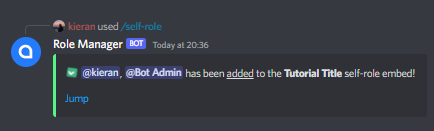
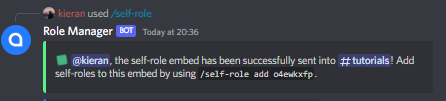
GitBook: [#7] auto roles page completed

Changed region(s): [[0.0, 0.0594, 0.9585, 0.9208], [0.0899, 0.9802, 0.1198, 1.0]]

diff --git a/p/auto-roles.md b/p/auto-roles.md
@@ -7,3 +7,24 @@ coverY: 0
 
 # Setting up Auto Roles with Role Manager!
 
+Before going any further, you'll need to ensure you have the `Administrator` permission within the server you're using. If you're the Owner of the server, then you'll have no need to worry about this!
+
+### Creating an Auto Role on your server with Role Manager!
+
+The first thing you're going to have to do is ensure that Role Manager has the permissions required for its general purpose. If that's the case, then its time to get our hands dirty..
+
+In any channel, type `/auto-role add`, this will bring up something looking a little like the image shown below:
+
+![](../.gitbook/assets/image.png)
+
+Once you can see this, press enter on your keyboard. You'll then see a field for you to select a role. This is the role you'd like members to recieve upon their joining of your server. For this tutorial, I'll just use a random role I have laying around in my server.
+
+Once your role has been selected, you'll see something like the following:
+
+![](<../.gitbook/assets/image (6).png>)
+
+From here, simply press enter on your keyboard and you're done! On a users arrival to your server, they'll automatically be granted the role you've specified within the command above. Should you want to view all of your current server's auto-roles, simply use the command /auto-role list and you'll see an embed with all of your current auto-roles!
+
+![](<../.gitbook/assets/image (4).png>)
+
+So there you have it! That's how you setup auto-roles on Role Manager v3! Should you have any further questions or problems, don't hesistate to join our support server over @ [UtiliBots](https://discord.gg/cAtc7kZbPX)!

diff --git a/p/self-roles.md b/p/self-roles.md
@@ -25,7 +25,7 @@ Once you've chosen your channel, you'll see one last required field within the s
 
 Once you've done this, you'll recieve a message prompt telling you that the menu creation was successful and that it's ready to be used! If you don't get this prompt, there is likely an error in the bots permissions. The prompt looks as shown below:
 
-![](../.gitbook/assets/image.png)
+![](<../.gitbook/assets/image (1).png>)
 
 Each self role menu is attached to an 8 character identifiable string, this is to allow for Role Manager to find the menu you're trying to edit.
 
@@ -33,7 +33,7 @@ From here, copy the 8 character code given to you via the success embed in the a
 
 Once you've selected your role, press enter and you're done! You'll recieve a success message and the role will now be attached to the embed menu within your designated channel!
 
-![](<../.gitbook/assets/image (1).png>)
+![](<../.gitbook/assets/image (1) (1).png>)
 
 The rest is easy! Have your users go to your designated self roles channel, from there they can click on the dropdown and select the roles they desire!&#x20;
 
